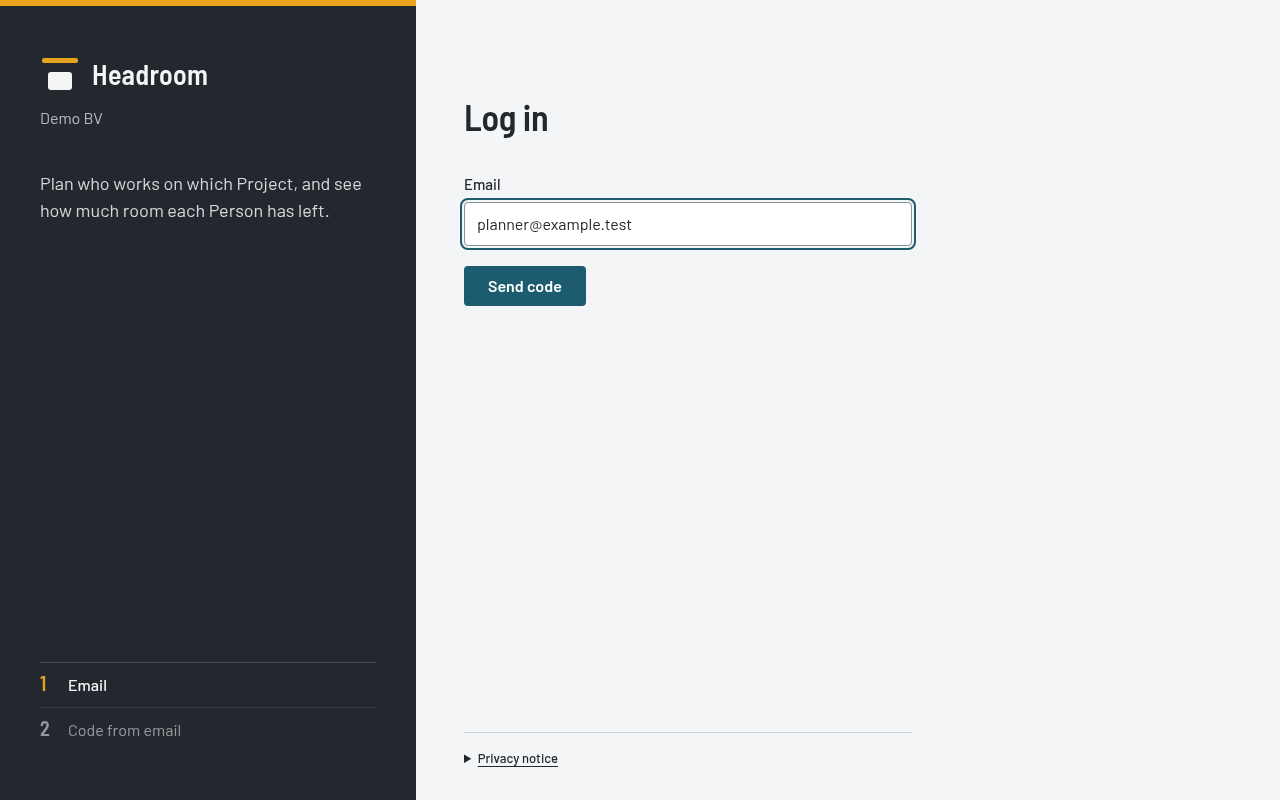
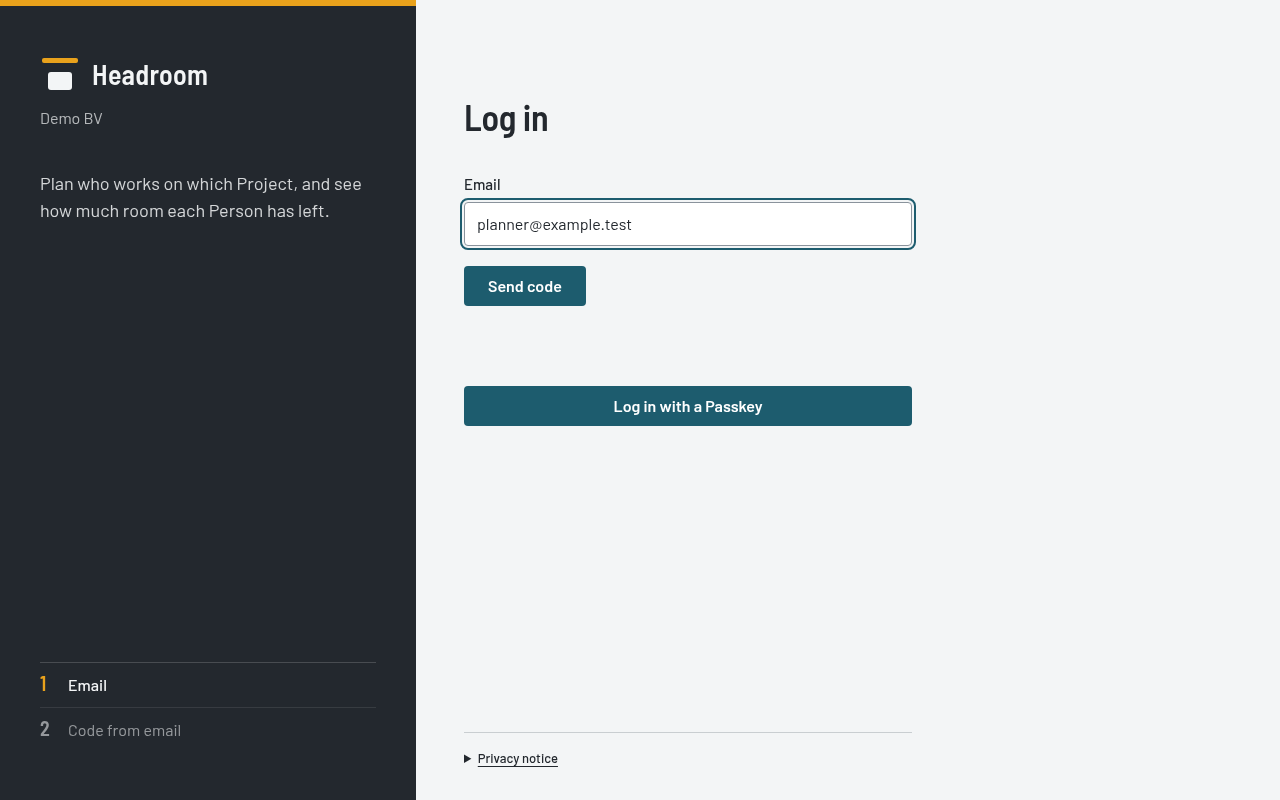
docs: refresh the user guide screenshots and fill its gaps
- Retake 11 screenshots from the demo data. Add the Time off and Account screenshots.
- Read the login codes from Mailpit in the screenshot scripts.
- Fix the rights of a Person who is not a Planner and the side drawer items.
- Describe the Passkey offer, the drawer menu button and the Help back link.
- Correct the privacy notice, consent, replacement day, Utilisation band, Contract icon, last Planner and Time off menu text.

Changed region(s): [[0.3438, 0.4688, 0.7188, 0.5312]]

diff --git a/docs/guides/user-guide/getting-started.md b/docs/guides/user-guide/getting-started.md
@@ -3,8 +3,8 @@
 ## Roles
 
 - A **Planner** changes everything in the app.
-- A **Person who is not a Planner** views the Schedule view, the Projects page and the Utilisation report.
-  They change nothing.
+- A **Person who is not a Planner** views the Schedule view, the Time off calendar, the Projects page and the Utilisation report.
+  They change only their own Time off and their own Account page.
 
 The server checks every right. A hidden button is not the only protection.
 A disabled button says why in its tooltip.
@@ -37,6 +37,9 @@ It comes with no warranty. Support is best effort.
 
 You are logged in. The session lasts 30 days from your last visit.
 
+After a login with a code, Headroom offers "Log in faster next time." Select **Save a Passkey** to save one, or close the message.
+The offer shows only when your browser supports Passkeys. See the [Account page](account.md).
+
 If you saved a Passkey, you can log in with it instead: select **Log in with a Passkey**. See the [Account page](account.md).
 
 Rules for the code:
@@ -49,7 +52,7 @@ You get the same "code sent" message if your email is not known, or if your end 
 In that case no email goes out. Ask a Planner to check your email address and end date.
 Your login stops the day after your end date.
 
-The login screen has a "Privacy notice" link. Click it to open the notice. It names the company that controls your data.
+The login screen has a "Privacy notice" link. Click it to show the notice below the link. It names the company that controls your data.
 It says what Headroom stores: your name, email, Contracts, Allocations and Time off.
 Headroom erases your personal details 12 months after your end date.
 The database host of your company sets how long backups keep data.
@@ -58,14 +61,18 @@ To log out, select **Sign out** in the header.
 
 ## The app
 
+- The menu button at the left of the header shows or hides the side drawer.
 - The header shows the app name, the company name, the help button, the theme button, your name and **Sign out**.
 - The help button (**?**) opens the help for the screen you are on. On other screens, it opens the contents.
+  A help topic has a "Back to Help" link to the contents. Each help page shows the app version at the bottom.
 - The theme button cycles through Auto, Light and Dark. Auto follows your system.
-- The side drawer has **Schedule**, **Projects**, **Utilisation** and **Account**, and for Planners also **People** and **Settings**.
+- The side drawer has **Schedule**, **Time off**, **Projects**, **Utilisation** and **Account**, and for Planners also **People** and **Settings**.
 
 ## Planners: first steps
 
-Follow these steps in order to set up a new Instance.
+The Operator creates the first Planner on the first-run screen. The operator guide describes it.
+That Planner gets a Contract of 8 hours, Monday to Friday, from the day of the first run.
+Then follow these steps in order to set up the new Instance.
 
 1. Set the Company days off. Open the **Settings** page.
    Add each Company day off for the year. See [Settings page](settings.md).

diff --git a/docs/guides/user-guide/settings.md b/docs/guides/user-guide/settings.md
@@ -1,6 +1,6 @@
 # Settings page (Planners only)
 
-![The Settings page with the nav on the left, and the Company and Access and integrations groups on the right](images/settings.png)
+![The Settings page with the nav on the left, and the Company, Instance and Access and integrations groups on the right](images/settings.png)
 
 The page has three groups: **Company**, **Instance** and **Access and integrations**.
 - The nav on the left lists each area. Click an area to jump to it. On a phone, the nav shows above the page.
@@ -16,7 +16,8 @@ The page has three groups: **Company**, **Instance** and **Access and integratio
   It reduces Capacity like a public holiday.
   Use the arrows to change the year.
   - Belgian public holidays show in grey. You cannot change them.
-    A public holiday on a Saturday or Sunday shows a prompt to add a replacement day.
+    A public holiday on a Saturday or Sunday shows the note "On a Saturday: add a replacement day?" (or Sunday).
+    To add the replacement day, use the row at the bottom.
   - Each Company day off has **Edit** and **Delete**.
   - The row at the bottom adds a date and a name, for example a bridge day.
     **Add** stays disabled until the date and the name are filled in.
@@ -95,7 +96,7 @@ Each Person connects with their own login. Claude then acts as that Person, with
 
    It names the Connected app and the Person.
    Every Person can tick **Can change**. With it, Claude can change your own Time off. If you are a Planner, Claude can also change the planning.
-   Without it, Claude reads only. Select **Allow**.
+   Without it, Claude reads only. Select **Allow**. **Cancel** refuses the access.
 
 Each member sees their own data. `get_me` tells each member who they are.
 Headroom asks for consent on every connect.
@@ -281,8 +282,7 @@ For example, a Power Automate flow can post to Teams.
 
 - The row at the bottom adds a Webhook with a name and a URL.
   Headroom shows the secret (`whsec_...`) once. Copy it then.
-- The URL must use https and must point to a public address.
-- The URL must use https and must not point to an internal address.
+- The URL must use https and must point to a public address, not to an internal address.
   A development instance also accepts http.
   **Add** stays disabled until the name is filled in and the URL is valid.
   The server checks the URL again.

diff --git a/docs/guides/screenshots/README.md b/docs/guides/screenshots/README.md
@@ -5,31 +5,19 @@ They use the demo data of `--seed`, a fixed 1280×800 viewport and the light the
 
 ## Take the screenshots again
 
-1. Start an empty PostgreSQL on port 5432 with the password from `src/Headroom/appsettings.Development.json`:
-
-   ```sh
-   DOCKER_HOST=unix:///var/run/docker.sock docker run -d --name headroom-shots-sql \
-     -e 'POSTGRES_PASSWORD=Dev_Passw0rd!' -p 5432:5432 postgres:17
-   ```
-
-2. From the repo root, run the app with demo data and keep its log:
-
-   ```sh
-   ASPNETCORE_ENVIRONMENT=Development ASPNETCORE_URLS=http://localhost:5002 \
-     dotnet run --project src/Headroom --no-launch-profile -- --seed > /tmp/headroom.log 2>&1 &
-   ```
-
-3. In this folder, install the dependency and take the screenshots:
+1. From the repo root, start the app with demo data and Mailpit: `scripts/preview.sh`.
+2. In this folder, install the dependency and take the screenshots:
 
    ```sh
    npm install
-   node login.mjs /tmp/headroom.log
+   node login.mjs
    node pages.mjs
    ```
 
-4. Stop the app and remove the container: `DOCKER_HOST=unix:///var/run/docker.sock docker rm -f headroom-shots-sql`.
+3. Stop `scripts/preview.sh` with Ctrl+C. It removes its containers.
 
-`login.mjs` reads the login codes from the app log. It asks for one code for each demo user.
+`login.mjs` reads the login codes from Mailpit. It asks for one code for each demo user.
 The app allows 3 codes for each email in 15 minutes.
 `pages.mjs` takes one screenshot when you give its name, for example `node pages.mjs projects`.
-Set `CHROMIUM` when Chromium is not at `/usr/bin/chromium`.
+Set `CHROMIUM` when Chromium is not at `/usr/bin/chromium`, and `MAILPIT` when Mailpit is not at `http://localhost:8025`.
+`consent.png`, `account-connections.png`, `settings-connected-apps.png` and `settings-connections.png` need a Connected app and a Connection. The scripts do not take them.

diff --git a/docs/guides/user-guide/account.md b/docs/guides/user-guide/account.md
@@ -2,6 +2,8 @@
 
 The Account page holds your own login settings: your Passkeys, your Access tokens and your Connections.
 
+![The Account page with the Passkeys, Access tokens and Connections sections](images/account.png)
+
 ## Passkeys
 
 A Passkey lets you log in without waiting for a Login code. Your device or password manager keeps the Passkey.
@@ -9,6 +11,7 @@ The Login code always keeps working. Use it to log in the first time, on a new d
 
 - To save a Passkey, select **Save a Passkey** and follow the prompt of your browser or password manager.
   The button shows only when your browser supports Passkeys.
+  After a login with a code, Headroom also offers **Save a Passkey** in a message.
 - Headroom names the Passkey from your browser and system, for example "Firefox on Linux". You cannot rename it.
   The list shows the name, the creation date and the date you last used the Passkey.
 - You can save several Passkeys, for example one for your laptop and one for your phone.

diff --git a/docs/guides/user-guide/people.md b/docs/guides/user-guide/people.md
@@ -35,13 +35,13 @@ Status values:
 
 - **Edit name or email** changes the name or email.
 - The Planner checkbox gives or removes the Planner right. Any Planner can do this, also for themselves.
-- The last Planner who can log in cannot lose the flag and cannot get an end date. Make another Person a Planner first.
+- The last Planner who can log in cannot lose the flag, get an end date, be erased or be deleted. Make another Person a Planner first.
 - The card shows the hours that apply now.
 
 ## Contracts card
 
 - The table shows From, To, the hours from Monday to Sunday, and the hours each week.
-- **Edit** and **Delete** change a row. **+ Contract** adds a Contract from a date.
+- The **Edit Contract** and **Delete Contract** icons change a row. **+ Contract** adds a Contract from a date.
 - You can change Contracts in the past.
 - Two Contracts of one Person cannot start on the same day.
 - A Contract cannot start after the end date. Use Rehire for that.

diff --git a/docs/guides/user-guide/schedule.md b/docs/guides/user-guide/schedule.md
@@ -86,7 +86,8 @@ A Planner changes the Time off of every Person. Other People change only their o
 - Open the bar menu: right-click the bar, or focus it with Tab and press the Menu key or Shift+F10. It has **Edit** and **Delete**.
   **Edit** has one **Period** field. To pick a single day, select the same date twice.
   **From part** and **To part** each have the choices **Morning** and **Afternoon**.
-- The menu also lets you set the first day and the last day to half day or full day.
+- For Time off of several days, the menu has **First day: Half day** and **Last day: Half day**.
+  On a half day, the item reads **Full day** instead.
   For a single day, choose **Morning**, **Afternoon** or **Full day**.
 
 Time off has no type. Leave, sickness and other absence are all the same.

diff --git a/CHANGELOG.md b/CHANGELOG.md
@@ -13,6 +13,10 @@ This project follows [Semantic Versioning](https://semver.org/spec/v2.0.0.html).
 - The first-run screen asks for the email server before it sends the login code. Headroom skips this step when `Smtp__Host` is set, and in Development.
 - A Planner switches "Send Person id" and "Send client IP address" in Settings (Instance, Telemetry). A change applies to the next request, with no restart.
 
+### Changed
+
+- The user guide and the in-app Help have new screenshots. They now describe the Passkey offer after login and the Time off item in the side drawer.
+
 ### Deprecated
 
 - `Telemetry__EndUserId` and `Telemetry__ClientAddress` are now a fallback for the Settings section. A later release removes them.

diff --git a/docs/guides/user-guide/time-off.md b/docs/guides/user-guide/time-off.md
@@ -3,6 +3,8 @@
 The Time off calendar shows who is off on each day. Every Person can open it.
 The page is read-only. To change Time off, use the Schedule. See [Schedule view](schedule.md).
 
+![The Time off calendar for November 2026 with two Time off bars and three days off](images/time-off.png)
+
 ## Read it
 
 - The page shows one month as a wall calendar. It opens on the current month.

diff --git a/docs/guides/user-guide/utilisation.md b/docs/guides/user-guide/utilisation.md
@@ -24,7 +24,7 @@ Everyone sees the whole report, read-only. Your own row is highlighted.
 | --- | --- |
 | Below 75% | Under-used |
 | 75% to 90% | Ideal (green) |
-| 90% to 100% | High (amber) |
+| Above 90% to 100% | High (amber) |
 | Above 100% | Over-allocated (red) |
 | No Capacity | Grey |
 
